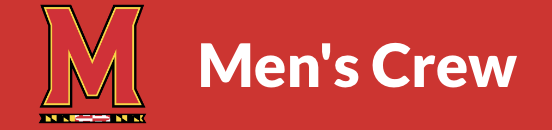
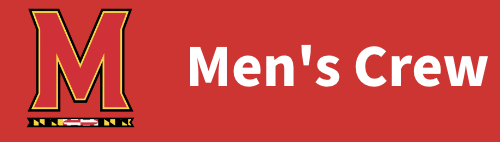
navbar good to go

Changed region(s): [[0.36, 0.3077, 0.99, 0.6769], [0.03, 0.0308, 0.27, 0.9538]]

diff --git a/frontend/src/components/navbar.js b/frontend/src/components/navbar.js
@@ -22,10 +22,10 @@ import {Link} from 'react-router-dom';
 const theme = createTheme({
     typography: {
         fontFamily: '"source-sans-pro", sans-serif'
-    }
+    },
 });
 const drawerWidth = 240;
-const navItems = ['Roster', 'Schedule', 'Recruiting', 'Contact', 'FAQ', 'Donate'];
+const navItems = ['Roster', 'Schedule', 'Recruiting', 'FAQ', 'Donate'];
 
 function NavBar(props) {
   const { window } = props;
@@ -72,6 +72,7 @@ function NavBar(props) {
         <AppBar component="nav" sx={{backgroundColor: '#de1d26'}}>
             <Toolbar>
             <IconButton
+                disableRipple
                 color="inherit"
                 aria-label="open drawer"
                 edge="start"
@@ -80,11 +81,14 @@ function NavBar(props) {
             >
                 <MenuIcon />
             </IconButton>
-            <img
-                src={menscrew}
-                alt="Adb Logo"
-                style={{ display: { xs: 'none', md: 'flex' }, marginRight: 20, height: '48px' }}
-            />
+            
+            <Link to="/">
+                <img
+                    src={menscrew}
+                    alt="Adb Logo"
+                    style={{ display: { xs: 'none', md: 'flex' }, marginRight: 20, height: '48px' }}
+                />
+            </Link>
             
             <Typography
                 variant="h5"
@@ -100,7 +104,7 @@ function NavBar(props) {
             </Typography>
             <Box sx={{display: { xs: 'none', sm: 'block' } }}>
                 {navItems.map((item) => (
-                <Button key={item} sx={{ 
+                <Button disableRipple key={item} sx={{ 
                         fontWeight: 'bold', 
                         textTransform: 'none',
                         color: '#fff' }}>

diff --git a/frontend/src/components/roster.js b/frontend/src/components/roster.js
@@ -60,12 +60,12 @@ const Roster = () => {
   
 
   const numRowers = rosterData.length;
-  const greyBackground = 'f0f0f0'
+  const greyBackground = '#f0f0f0'
   const isXsScreen = useMediaQuery('(max-width:600px)');
 
   return (
     <ThemeProvider theme={theme}>
-    <div style={{ background: 'white', minHeight: '100vh', display: 'flex',  alignItems: 'center' }}>
+    <div style={{ background: greyBackground, minHeight: '100vh', display: 'flex',  alignItems: 'center' }}>
       <Container 
         style={{ 
         background: 'white',  

diff --git a/frontend/src/components/schedule.js b/frontend/src/components/schedule.js
@@ -45,11 +45,11 @@ const Schedule = () => {
   
 
   const numRaces = scheduleData.length;
-  const greyBackground = 'f0f0f0'
+  const greyBackground = '#f0f0f0'
   const isXsScreen = useMediaQuery('(max-width:600px)');
 
   return (
-    <div style={{ background: 'white', minHeight: '100vh', display: 'flex' }}>
+    <div style={{ background: greyBackground, minHeight: '100vh', display: 'flex' }}>
       <Container 
         style={{ 
         background: 'white',  
